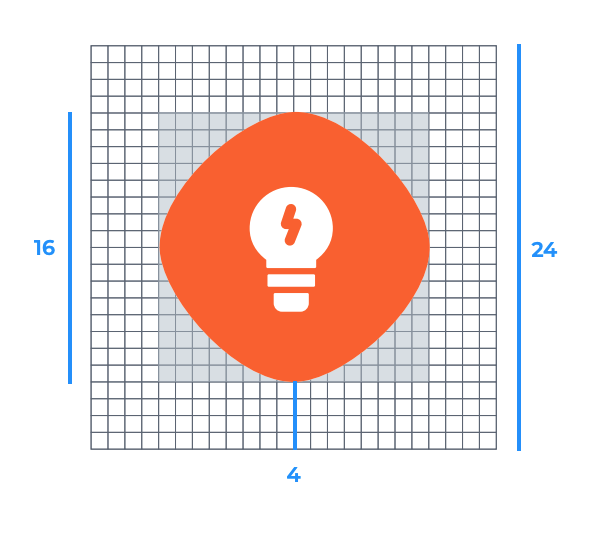
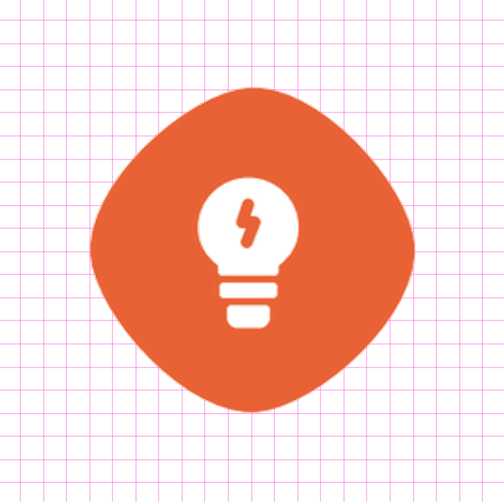
Add files via upload

diff --git a/case.css b/case.css
@@ -429,25 +429,29 @@ code {
 
 /* ── FIGURE (diagram / supporting images) ──────────────────────────── */
 .cs-figure {
-  margin: 3.5rem 3rem 0;
+  margin: 3rem auto 0;
+  max-width: 560px;
+  padding: 0 1.5rem;
   display: flex;
   flex-direction: column;
+  align-items: center;
 }
 .cs-figure img {
   width: 100%;
   height: auto;
   object-fit: contain;
-  background: #f5f5f0;
+  background: #ecece9;
   border: 1px solid var(--border);
   border-radius: var(--radius);
-  padding: 2rem 2.5rem;
+  padding: 1.5rem;
+  opacity: 0.82;
+  transition: opacity 0.4s;
 }
-.cs-figure.is-contained {
-  align-items: center;
+.cs-figure img:hover {
+  opacity: 1;
 }
 .cs-figure.is-contained img {
-  max-width: 440px;
-  padding: 2rem;
+  max-width: 320px;
 }
 
 /* ── RESPONSIVE ────────────────────────────────────────────────────── */
@@ -461,7 +465,7 @@ code {
   .cs-grid { grid-template-columns: 1fr; }
   .cs-outcomes { grid-template-columns: repeat(2, 1fr); }
   .cs-next { padding: 5rem 1.5rem; }
-  .cs-figure { margin: 2.5rem 1.5rem 0; }
+  .cs-figure { margin: 2.5rem auto 0; }
   .cs-figure img { padding: 1.25rem; }
   .footer { padding: 1.5rem; flex-direction: column; gap: 0.5rem; }
 }